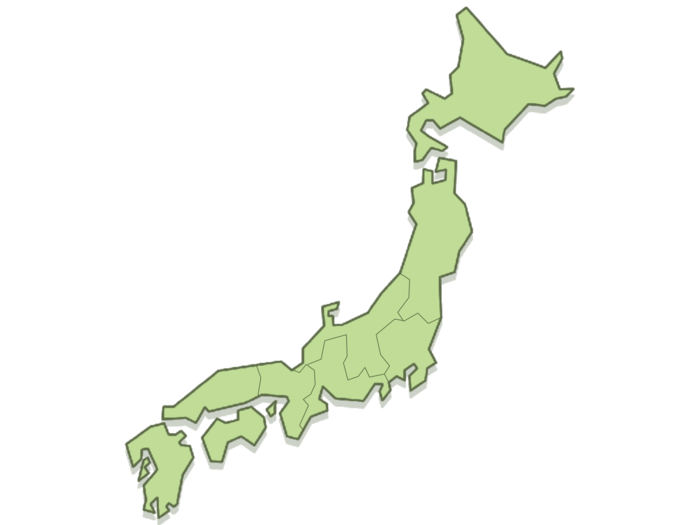
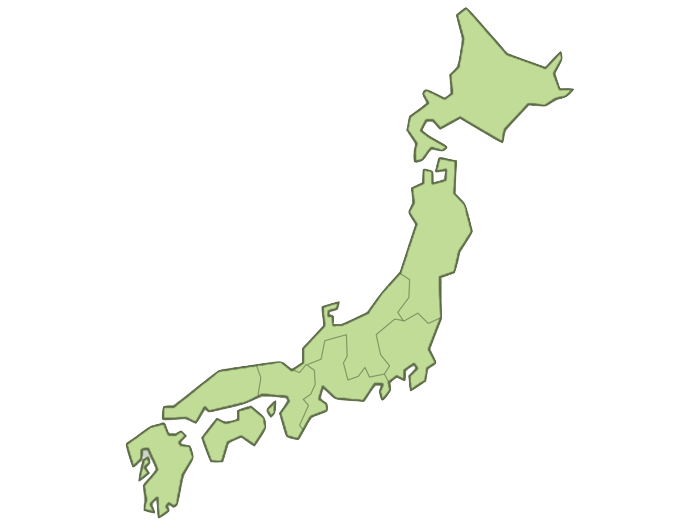
fix: image mapでのホバー処理

diff --git a/ec-site/app/assets/javascripts/jquery.imagemapster.js b/ec-site/app/assets/javascripts/jquery.imagemapster.js
@@ -1,5 +1,5 @@
 /* ImageMapster
-   Version: 1.2.10 (2/25/2013)
+   Version: 1.2.14-beta1 (6/18/2013)
 
 Copyright 2011-2012 James Treworgy
 
@@ -840,7 +840,7 @@ A jQuery plugin to enhance image maps.
     };
 
     $.mapster = {
-        version: "1.2.10",
+        version: "1.2.14-beta1",
         render_defaults: {
             isSelectable: true,
             isDeselectable: true,
@@ -991,6 +991,25 @@ A jQuery plugin to enhance image maps.
                 return (typeof HTMLElement === "object" ? o instanceof HTMLElement :
                         o && typeof o === "object" && o.nodeType === 1 && typeof o.nodeName === "string");
             },
+            /**
+             * Basic indexOf implementation for IE7-8. Though we use $.inArray, some jQuery versions will try to 
+             * use a prototpye on the calling object, defeating the purpose of using $.inArray in the first place.
+             *
+             * This will be replaced with the array prototype if it's available.
+             * 
+             * @param  {Array} arr The array to search
+             * @param {Object} target The item to search for
+             * @return {Number} The index of the item, or -1 if not found
+             */
+            indexOf: function(arr,target){
+                for(var i=0; i<arr.length; i++){
+                    if(arr[i]===target){
+                        return i;
+                    }
+                }
+                return -1;
+            },
+                
             // finds element of array or object with a property "prop" having value "val"
             // if prop is not defined, then just looks for property with value "val"
             indexOfProp: function (obj, prop, val) {
@@ -1540,6 +1559,7 @@ A jQuery plugin to enhance image maps.
                 key_list, area_list; // array of unique areas passed
 
             function setSelection(ar) {
+                var newState = selected;
                 if (ar) {
                     switch (selected) {
                         case true:
@@ -1547,8 +1567,9 @@ A jQuery plugin to enhance image maps.
                         case false:
                             ar.deselect(true); break;
                         default:
-                            ar.toggle(opts); break;
+                            newState = ar.toggle(opts); break;
                     }
+                    return newState;
                 }
             }
             function addArea(ar) {
@@ -1560,14 +1581,15 @@ A jQuery plugin to enhance image maps.
             // Clean up after a group that applied to the same map
             function finishSetForMap(map_data) {
                 $.each(area_list, function (i, el) {
-                    setSelection(el);
+                    var newState = setSelection(el);
+                    if (map_data.options.boundList) {
+                        m.setBoundListProperties(map_data.options, m.getBoundList(map_data.options, key_list), newState);
+                    }   
                 });
                 if (!selected) {
                     map_data.removeSelectionFinish();
                 }
-                if (map_data.options.boundList) {
-                    m.setBoundListProperties(map_data.options, m.getBoundList(map_data.options, key_list), selected);
-                }            
+
             }
 
             this.filter('img,area').each(function (i,e) {
@@ -1774,7 +1796,7 @@ A jQuery plugin to enhance image maps.
                 
                 usemap = this.getAttribute('usemap');
                 map = usemap && $('map[name="' + usemap.substr(1) + '"]');
-                if (!(img.is('img') && usemap && map.size() > 0)) {
+                if (!(img.is('img') && usemap && map.length > 0)) {
                     return true;
                 }
 
@@ -1807,6 +1829,7 @@ A jQuery plugin to enhance image maps.
                 }
                 return m.hasCanvas.value;
             };
+
             m.hasVml = function() {
                 if (!u.isBool(m.hasVml.value)) {
                     // initialize VML the first time we detect its presence.
@@ -1828,6 +1851,8 @@ A jQuery plugin to enhance image maps.
             };
 
             m.isTouch = !!document.documentElement.ontouchstart;
+
+            u.indexOf = Array.prototype.indexOf || u.indexOf;
 
             $.extend(m.defaults, m.render_defaults,m.shared_defaults);
             $.extend(m.area_defaults, m.render_defaults,m.shared_defaults);
@@ -2347,7 +2372,7 @@ A jQuery plugin to enhance image maps.
          */
         
         indexOf: function(image) {
-            return $.inArray(image, this);
+            return u.indexOf(this,image);
         },
         
         /**
@@ -2670,18 +2695,18 @@ A jQuery plugin to enhance image maps.
             me.activeAreaEvent=0;
         }
         if (delay<0) {
-            return;
-        }
-
-        if (area.owner.currentAction || delay) {
-            me.activeAreaEvent = window.setTimeout((function() {
-                    return function() {
-                        queueMouseEvent(me,0,area,deferred);
-                    };
-                }(area)),
-                delay || 100);
+            deferred.reject();
         } else {
-             cbFinal(area.areaId);
+            if (area.owner.currentAction || delay) {
+                me.activeAreaEvent = window.setTimeout((function() {
+                        return function() {
+                            queueMouseEvent(me,0,area,deferred);
+                        };
+                    }(area)),
+                    delay || 100);
+            } else {
+                 cbFinal(area.areaId);
+            }
         }
         return deferred;
     }
@@ -3410,14 +3435,12 @@ A jQuery plugin to enhance image maps.
                 }
 
                 if (!mapArea.nohref) {
-                    $area.bind('click.mapster', me.click);
-                       
-                    if (!m.isTouch) {
-                        $area.bind('mouseover.mapster', me.mouseover)
-                            .bind('mouseout.mapster', me.mouseout)
-                            .bind('mousedown.mapster', me.mousedown);
+                    $area.bind('click.mapster', me.click)
+                        .bind('mouseover.mapster, touchstart.mapster', me.mouseover)
+                        .bind('mouseout.mapster, touchend.mapster', me.mouseout)
+                        .bind('mousedown.mapster', me.mousedown);
                         
-                    }
+                    
                         
                 }
 
@@ -4275,7 +4298,7 @@ A jQuery plugin to enhance image maps.
     $.extend(m.defaults, {
         toolTipContainer: '<div style="border: 2px solid black; background: #EEEEEE; width:160px; padding:4px; margin: 4px; -moz-box-shadow: 3px 3px 5px #535353; ' +
         '-webkit-box-shadow: 3px 3px 5px #535353; box-shadow: 3px 3px 5px #535353; -moz-border-radius: 6px 6px 6px 6px; -webkit-border-radius: 6px; ' +
-        'border-radius: 6px 6px 6px 6px; opacity: 0.9;"></dteniv>',
+        'border-radius: 6px 6px 6px 6px; opacity: 0.9;"></div>',
         showToolTip: false,
         toolTipFade: true,
         toolTipClose: ['area-mouseout','image-mouseout'],

diff --git a/ec-site/app/assets/javascripts/script.js b/ec-site/app/assets/javascripts/script.js
@@ -1,6 +1,5 @@
-// クリックでページ内移動
 $(function(){
-
+	// ページ内移動
 	var
 		winW = $(window).width(),
 		winH = $(window).height(),
@@ -70,10 +69,9 @@ $(function(){
 			$('#mainnav').removeClass('changeNav');
 		}
 	});
-});
 
-$(function(){
-		$('#ImageMap').mapster({
+	// mapster
+	$('#ImageMap').mapster({
 		singleSelect : true,
 		clickNavigate : true,
 		render_highlight : { altImage : 'map-2.png' },
